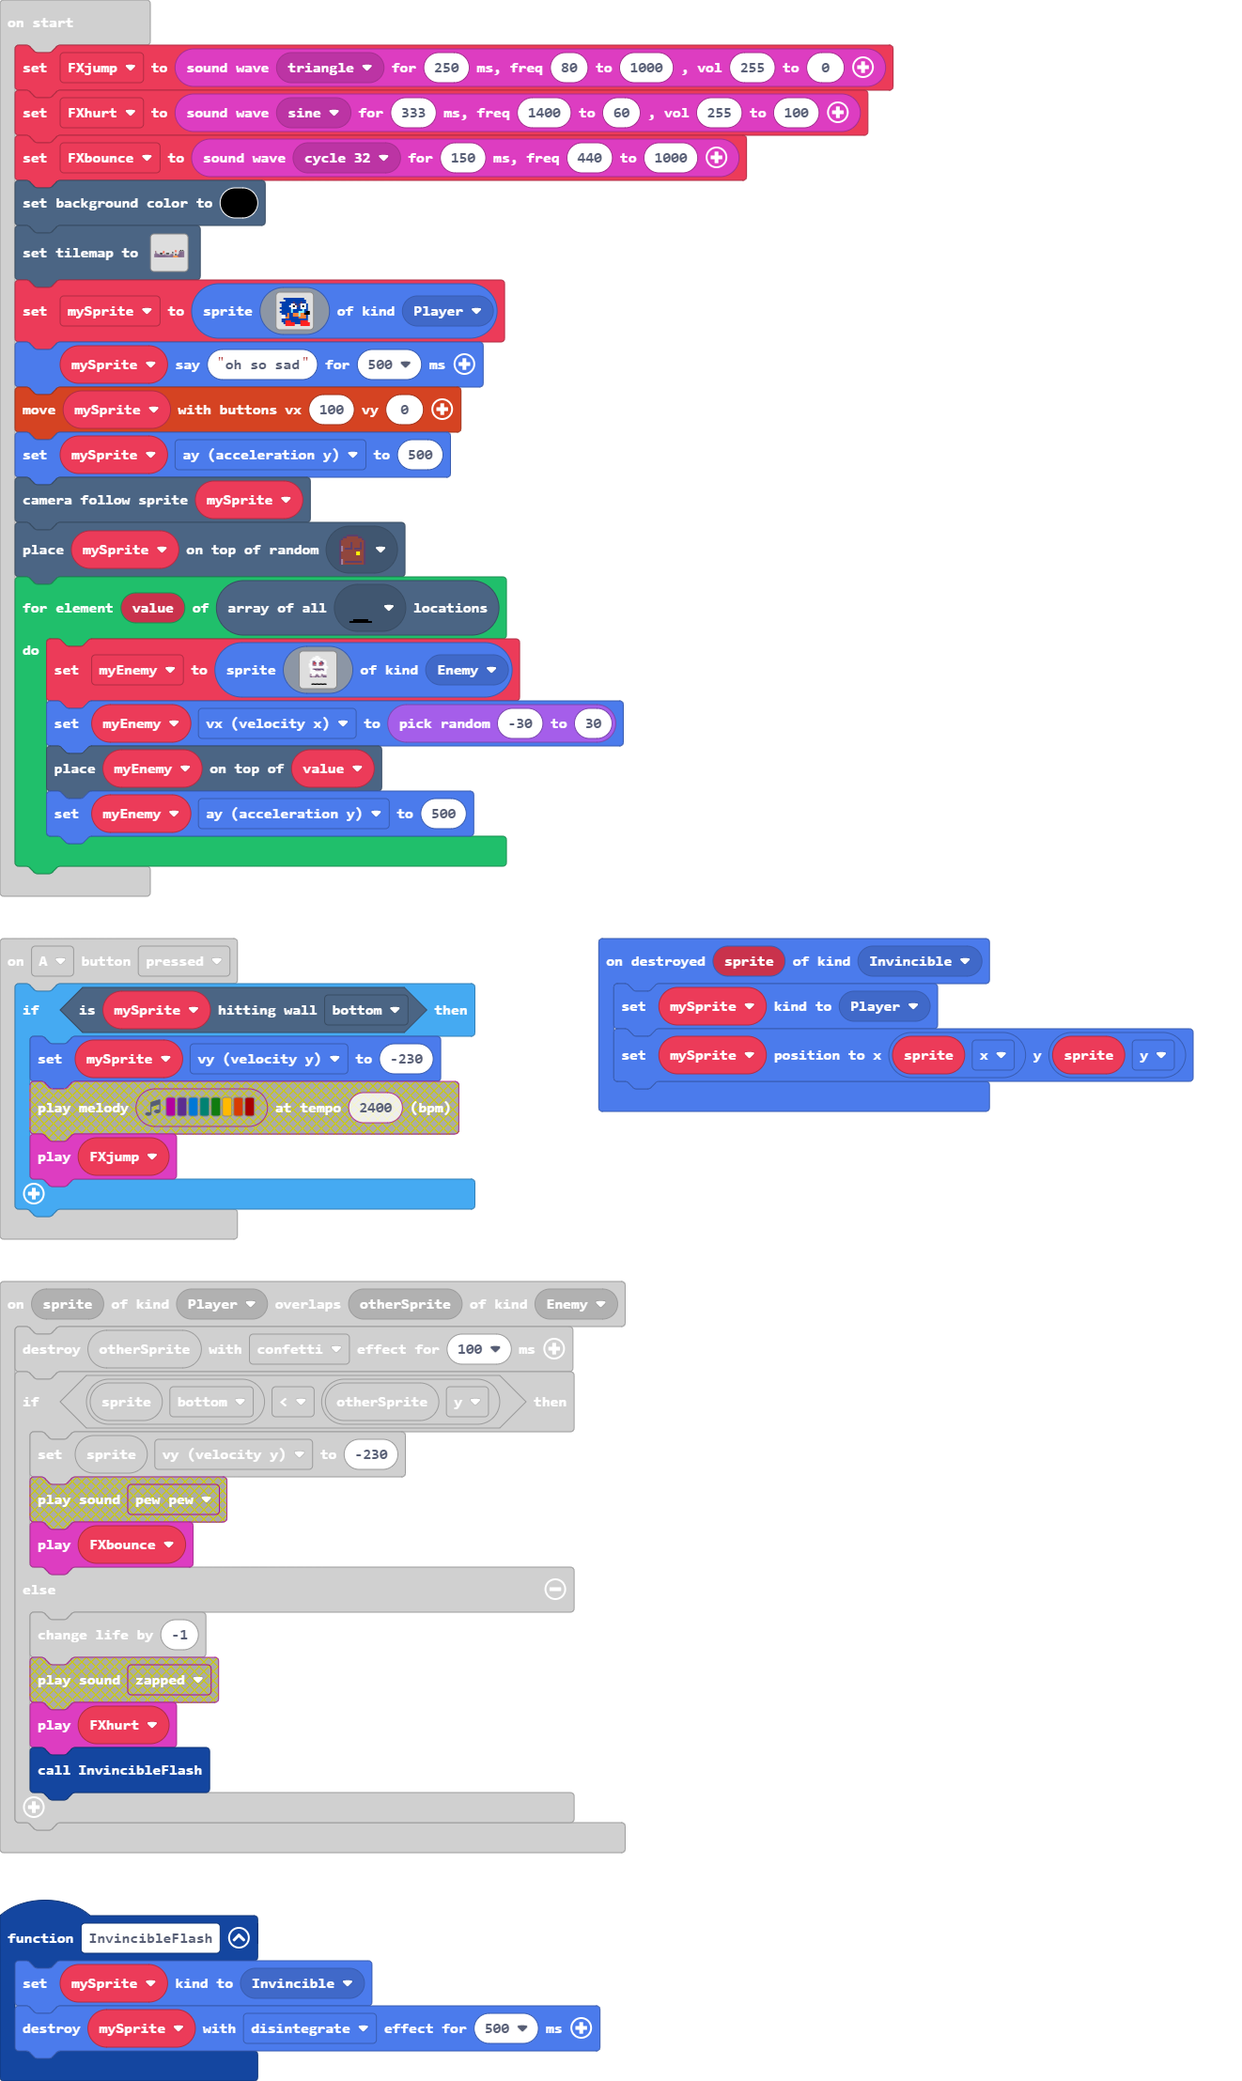
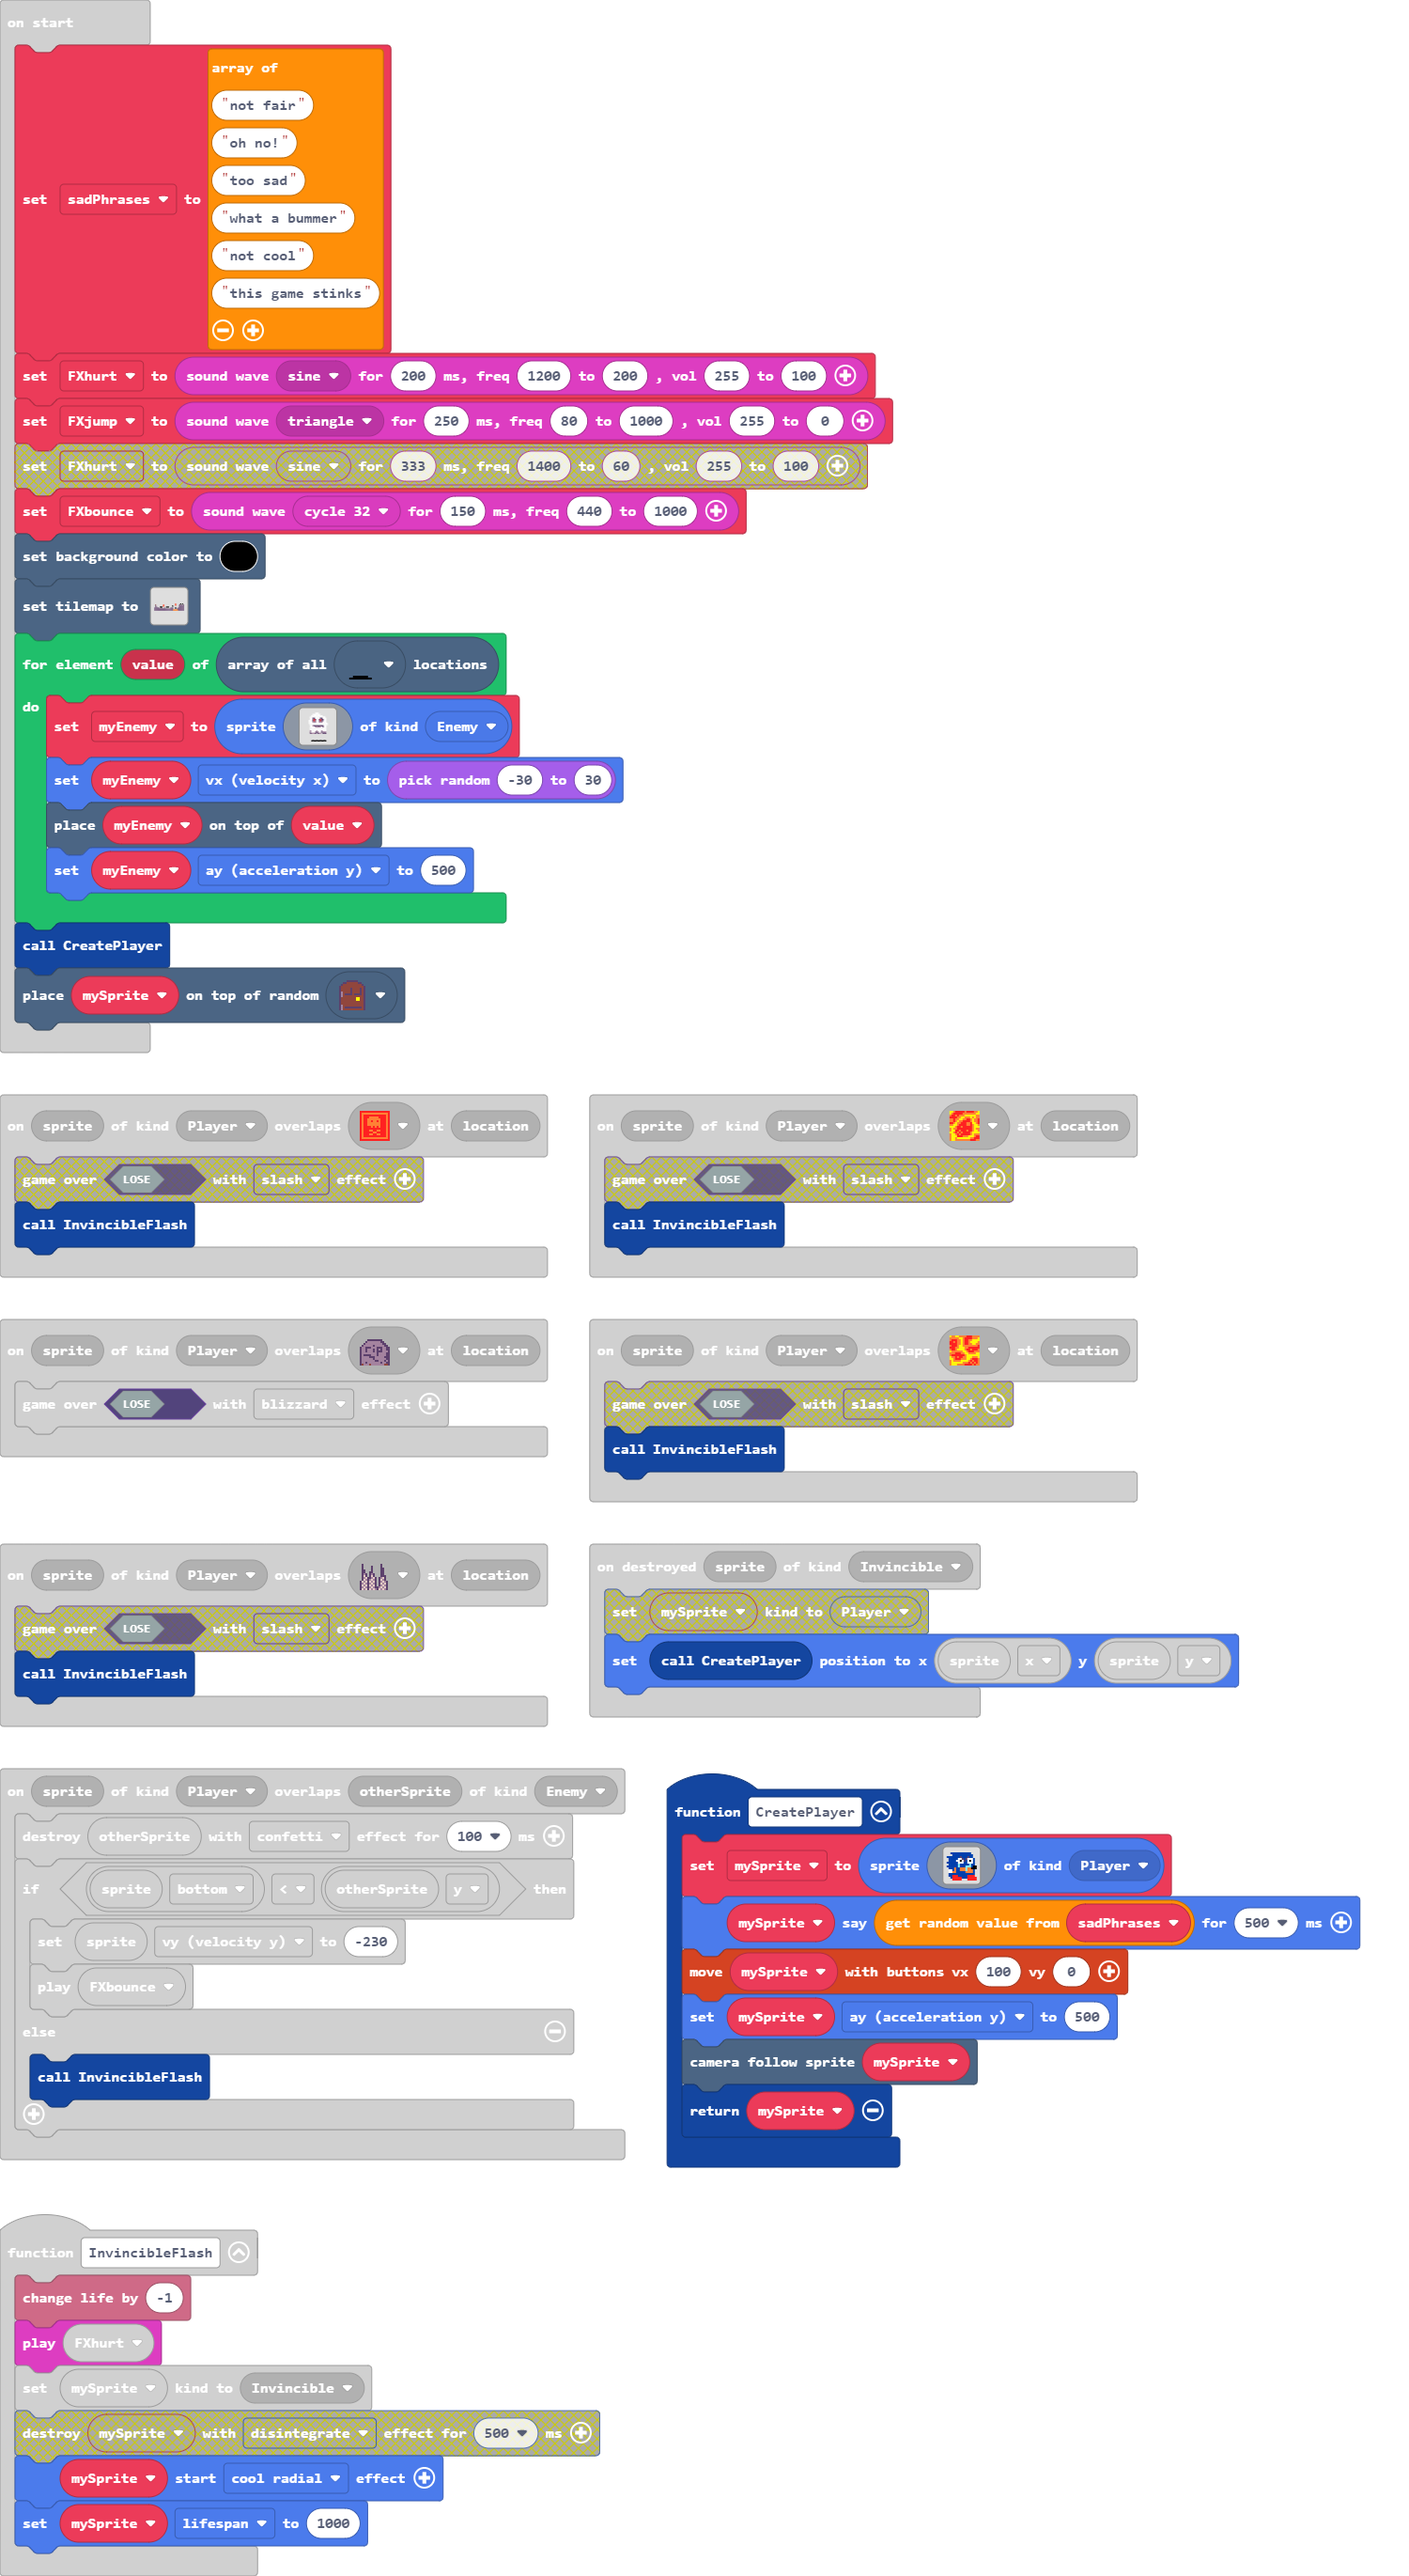
Update main.blocks, main.ts, tilemap.g.jres, tilemap.g.ts

diff --git a/main.ts b/main.ts
@@ -2,8 +2,33 @@ namespace SpriteKind {
     export const Invincible = SpriteKind.create()
 }
 scene.onOverlapTile(SpriteKind.Player, assets.tile`tile4`, function (sprite, location) {
-    game.over(true, effects.blizzard)
+    game.over(false, effects.blizzard)
 })
+function CreatePlayer () {
+    mySprite = sprites.create(img`
+        . . . . . . . . . . . . . . . . 
+        . . 8 8 8 8 8 8 8 8 8 8 8 . . . 
+        . . . 8 8 8 8 8 8 8 8 8 8 8 . . 
+        8 8 8 8 8 8 8 c 8 8 8 c 8 8 . . 
+        . 8 8 8 8 8 1 1 c 8 c 1 1 1 8 . 
+        . 8 8 8 8 1 1 f 1 c 8 1 f 1 8 . 
+        8 8 8 8 8 8 1 1 1 8 8 1 1 1 8 . 
+        . 8 8 8 8 8 9 8 8 8 8 8 9 8 8 . 
+        8 8 8 8 8 8 9 8 8 8 9 9 9 8 f f 
+        . 8 8 8 4 8 8 4 4 4 9 4 4 f f f 
+        . 1 1 8 4 8 8 4 4 4 9 4 4 4 8 . 
+        . 1 1 4 4 8 8 8 8 8 4 4 4 4 8 . 
+        . 8 8 8 8 8 8 8 8 8 8 8 8 8 8 . 
+        . 8 8 2 2 2 8 8 8 8 8 2 2 2 2 . 
+        . . 8 2 2 2 2 2 8 8 8 2 2 2 2 2 
+        . . . 2 2 2 2 2 . . . 2 2 2 2 2 
+        `, SpriteKind.Player)
+    mySprite.say(sadPhrases._pickRandom(), 500)
+    controller.moveSprite(mySprite, 100, 0)
+    mySprite.ay = 500
+    scene.cameraFollowSprite(mySprite)
+    return mySprite
+}
 controller.A.onEvent(ControllerButtonEvent.Pressed, function () {
     if (mySprite.isHittingTile(CollisionDirection.Bottom)) {
         mySprite.vy = -230
@@ -11,24 +36,26 @@ controller.A.onEvent(ControllerButtonEvent.Pressed, function () {
     }
 })
 scene.onOverlapTile(SpriteKind.Player, sprites.dungeon.hazardLava0, function (sprite, location) {
-    game.over(false, effects.slash)
+    InvincibleFlash()
 })
 scene.onOverlapTile(SpriteKind.Player, sprites.dungeon.hazardLava1, function (sprite, location) {
-    game.over(false, effects.slash)
+    InvincibleFlash()
 })
 scene.onOverlapTile(SpriteKind.Player, assets.tile`tile2`, function (sprite, location) {
-    game.over(false, effects.slash)
+    InvincibleFlash()
 })
 sprites.onDestroyed(SpriteKind.Invincible, function (sprite) {
-    mySprite.setKind(SpriteKind.Player)
-    mySprite.setPosition(sprite.x, sprite.y)
+    CreatePlayer().setPosition(sprite.x, sprite.y)
 })
 function InvincibleFlash () {
+    info.changeLifeBy(-1)
+    FXhurt.play()
     mySprite.setKind(SpriteKind.Invincible)
-    mySprite.destroy(effects.disintegrate, 500)
+    mySprite.startEffect(effects.coolRadial)
+    mySprite.lifespan = 1000
 }
 scene.onOverlapTile(SpriteKind.Player, assets.tile`myTiles.tile`, function (sprite, location) {
-    game.over(false, effects.slash)
+    InvincibleFlash()
 })
 sprites.onOverlap(SpriteKind.Player, SpriteKind.Enemy, function (sprite, otherSprite) {
     otherSprite.destroy(effects.confetti, 100)
@@ -36,44 +63,28 @@ sprites.onOverlap(SpriteKind.Player, SpriteKind.Enemy, function (sprite, otherSp
         sprite.vy = -230
         FXbounce.play()
     } else {
-        info.changeLifeBy(-1)
-        FXhurt.play()
         InvincibleFlash()
     }
 })
-let myEnemy: Sprite = null
 let mySprite: Sprite = null
+let myEnemy: Sprite = null
 let FXbounce: SoundBuffer = null
-let FXhurt: SoundBuffer = null
 let FXjump: SoundBuffer = null
+let FXhurt: SoundBuffer = null
+let sadPhrases: string[] = []
+sadPhrases = [
+"not fair",
+"oh no!",
+"too sad",
+"what a bummer",
+"not cool",
+"this game stinks"
+]
+FXhurt = soundEffects.createSound(soundEffects.waveNumber(WaveType.Sine), 200, 1200, 200, 255, 100)
 FXjump = soundEffects.createSound(soundEffects.waveNumber(WaveType.Triangle), 250, 80, 1000)
-FXhurt = soundEffects.createSound(soundEffects.waveNumber(WaveType.Sine), 333, 1400, 60, 255, 100)
 FXbounce = soundEffects.createSound(soundEffects.waveNumber(WaveType.Cycle32), 150, 440, 1000)
 scene.setBackgroundColor(15)
 tiles.setTilemap(tilemap`platformer1`)
-mySprite = sprites.create(img`
-    . . . . . . . . . . . . . . . . 
-    . . 8 8 8 8 8 8 8 8 8 8 8 . . . 
-    . . . 8 8 8 8 8 8 8 8 8 8 8 . . 
-    8 8 8 8 8 8 8 c 8 8 8 c 8 8 . . 
-    . 8 8 8 8 8 1 1 c 8 c 1 1 1 8 . 
-    . 8 8 8 8 1 1 f 1 c 8 1 f 1 8 . 
-    8 8 8 8 8 8 1 1 1 8 8 1 1 1 8 . 
-    . 8 8 8 8 8 9 8 8 8 8 8 9 8 8 . 
-    8 8 8 8 8 8 9 8 8 8 9 9 9 8 f f 
-    . 8 8 8 4 8 8 4 4 4 9 4 4 f f f 
-    . 1 1 8 4 8 8 4 4 4 9 4 4 4 8 . 
-    . 1 1 4 4 8 8 8 8 8 4 4 4 4 8 . 
-    . 8 8 8 8 8 8 8 8 8 8 8 8 8 8 . 
-    . 8 8 2 2 2 8 8 8 8 8 2 2 2 2 . 
-    . . 8 2 2 2 2 2 8 8 8 2 2 2 2 2 
-    . . . 2 2 2 2 2 . . . 2 2 2 2 2 
-    `, SpriteKind.Player)
-mySprite.say("oh so sad", 500)
-controller.moveSprite(mySprite, 100, 0)
-mySprite.ay = 500
-scene.cameraFollowSprite(mySprite)
-tiles.placeOnRandomTile(mySprite, assets.tile`tile3`)
 for (let value of tiles.getTilesByType(assets.tile`tile5`)) {
     myEnemy = sprites.create(img`
         ................
@@ -105,6 +116,8 @@ for (let value of tiles.getTilesByType(assets.tile`tile5`)) {
     tiles.placeOnTile(myEnemy, value)
     myEnemy.ay = 500
 }
+CreatePlayer()
+tiles.placeOnRandomTile(mySprite, assets.tile`tile3`)
 game.onUpdate(function () {
     for (let value of sprites.allOfKind(SpriteKind.Enemy)) {
         if (!(value.tileKindAt(TileDirection.Left, assets.tile`transparency16`))) {

diff --git a/tilemap.g.ts b/tilemap.g.ts
@@ -125,6 +125,25 @@ namespace myTiles {
 . 2 2 2 2 2 2 2 2 2 2 2 2 2 2 2 2 . . . . . . 2 2 2 2 2 2 2 
 . . . . . . . . . . . . . . . . . . 2 . . . . . 2 2 2 2 2 2 
 `, [myTiles.transparency16,myTiles.tile1,myTiles.tile3,myTiles.tile4,myTiles.tile5,myTiles.tile2,sprites.dungeon.hazardLava0,sprites.dungeon.hazardLava1,myTiles.tile20], TileScale.Sixteen);
+            case "level4":
+            case "level4":return tiles.createTilemap(hex`1000100000000000000000000000000000000000000000000000000000000000000000000000000000000000000000000000000000000000000000000000000000000000000000000000000000000000000000000000000000000000000000000000000000000000000000000000000000000000000000000000000000000000000000000000000000000000000000000000000000000000000000000000000000000000000000000000000000000000000000000000000000000000000000000000000000000000000000000000000000000000000000000000000000000000000000000000000000000000000000000000000000000000000000000000000000000000`, img`
+. . . . . . . . . . . . . . . . 
+. . . . . . . . . . . . . . . . 
+. . . . . . . . . . . . . . . . 
+. . . . . . . . . . . . . . . . 
+. . . . . . . . . . . . . . . . 
+. . . . . . . . . . . . . . . . 
+. . . . . . . . . . . . . . . . 
+. . . . . . . . . . . . . . . . 
+. . . . . . . . . . . . . . . . 
+. . . . . . . . . . . . . . . . 
+. . . . . . . . . . . . . . . . 
+. . . . . . . . . . . . . . . . 
+. . . . . . . . . . . . . . . . 
+. . . . . . . . . . . . . . . . 
+. . . . . . . . . . . . . . . . 
+. . . . . . . . . . . . . . . . 
+`, [myTiles.transparency16], TileScale.Sixteen);
         }
         return null;
     })
